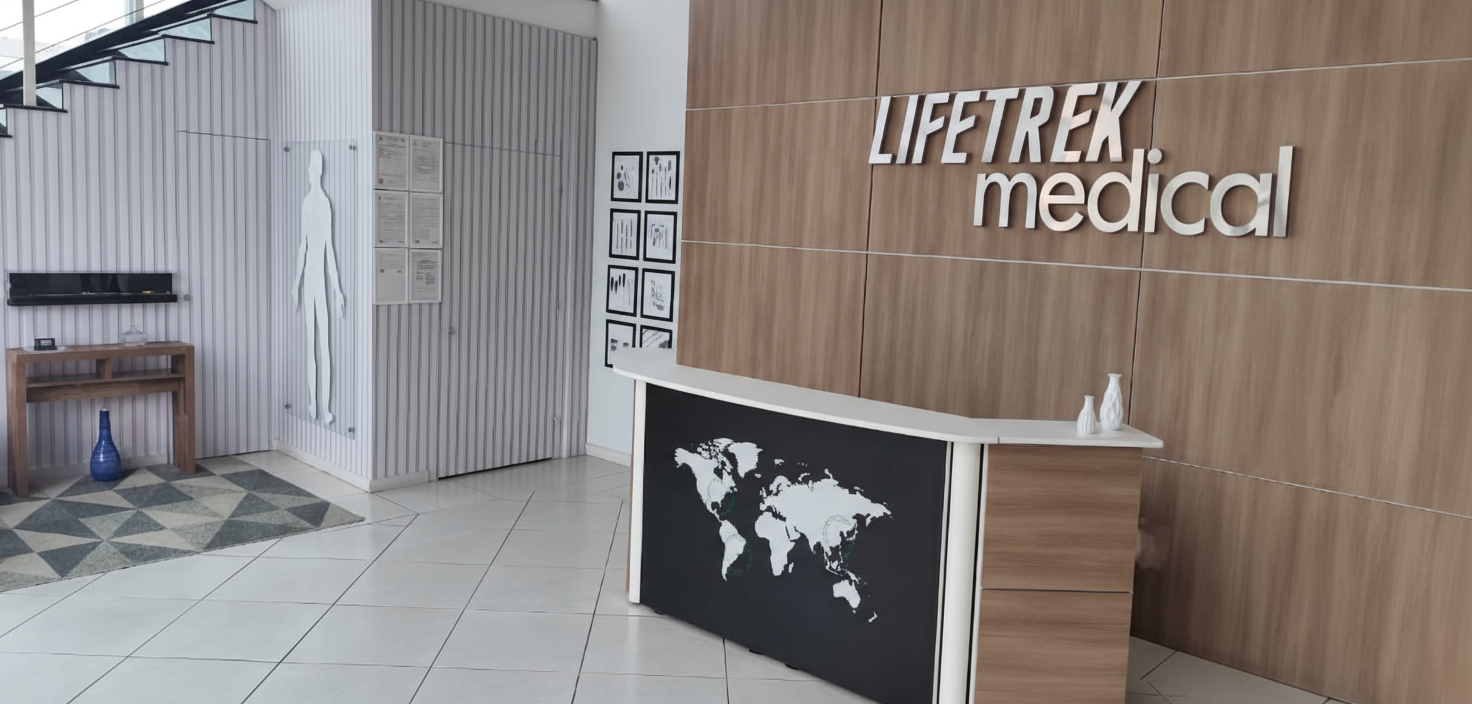
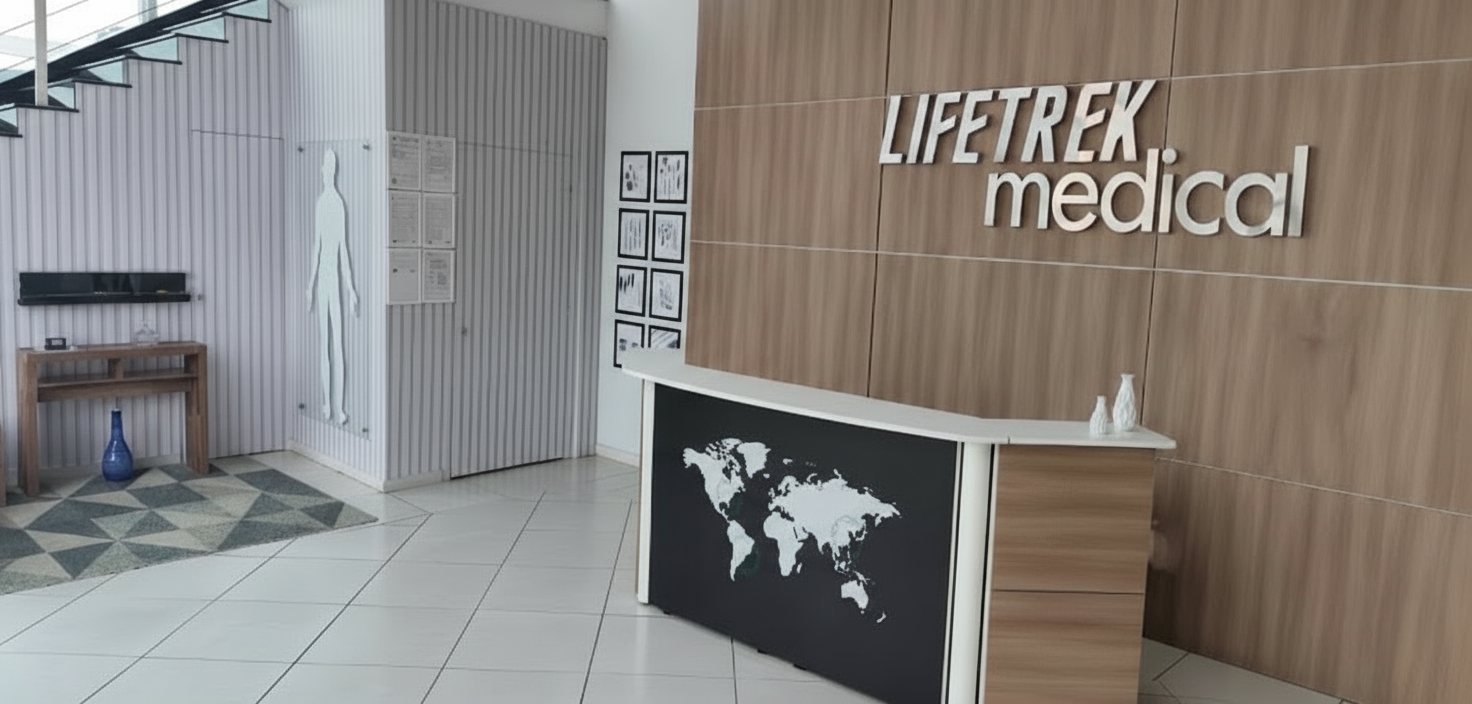
Fix: Optimize images for performance

diff --git a/src/pages/Home.tsx b/src/pages/Home.tsx
@@ -3,13 +3,12 @@ import { Button } from "@/components/ui/button";
 import { useLanguage } from "@/contexts/LanguageContext";
 import { Suspense, lazy } from "react";
 import { useIsMobile } from "@/hooks/use-mobile";
-import reception from "@/assets/facility/reception.webp";
 
 const DNA3D = lazy(() => import("@/components/3d/DNA3D").then(module => ({ default: module.DNA3D })));
 import receptionHero from "@/assets/facility/reception-hero.webp";
-import cleanroom from "@/assets/facility/cleanroom.webp";
-import exterior from "@/assets/facility/exterior.webp";
-import medicalScrew from "@/assets/products/medical-screw.webp";
+import cleanroomHero from "@/assets/facility/cleanroom-hero.webp";
+import exteriorHero from "@/assets/facility/exterior-hero.webp";
+import medicalScrewHero from "@/assets/products/medical-screw-hero.webp";
 import medicalImplantsDiagram from "@/assets/products/medical-implants-diagram.webp";
 import dentalImplantsDiagram from "@/assets/products/dental-implants-diagram.webp";
 import isoLogo from "@/assets/certifications/iso.webp";
@@ -60,7 +59,7 @@ import medens from "@/assets/clients/medens.webp";
 import neoortho from "@/assets/clients/neoortho.webp";
 import oblDental from "@/assets/clients/obl-dental.webp";
 import orthometric2 from "@/assets/clients/orthometric-2.webp";
-const heroImages = [reception, cleanroom, exterior, medicalScrew];
+const heroImages = [receptionHero, cleanroomHero, exteriorHero, medicalScrewHero];
 export default function Home() {
   const {
     t
@@ -215,8 +214,9 @@ export default function Home() {
                 className="w-full h-full object-cover" 
                 loading={index === 0 ? "eager" : "lazy"} 
                 fetchPriority={index === 0 ? "high" : "low"}
-                width="1920" 
-                height="600" 
+                decoding="async"
+                width="1000" 
+                height="667" 
               />
               <div className="absolute inset-0 bg-gradient-to-r from-primary/95 via-primary/80 to-transparent" />
               <div className="absolute inset-0 bg-gradient-to-br from-blue-600/30 via-blue-500/20 to-transparent mix-blend-overlay" />
@@ -360,7 +360,7 @@ export default function Home() {
 
           <div className="grid grid-cols-1 sm:grid-cols-2 lg:grid-cols-3 gap-8 sm:gap-10 max-w-6xl mx-auto mb-12 sm:mb-16">
             <div className="group relative overflow-hidden rounded-2xl shadow-2xl hover:shadow-primary/20 transition-all hover:-translate-y-2">
-              <img src={medicalScrew} alt="Precision medical implant screws manufactured with Swiss CNC technology" className="w-full h-64 sm:h-80 object-cover group-hover:scale-110 transition-transform duration-700" loading="lazy" width="400" height="320" />
+              <img src={medicalScrewHero} alt="Precision medical implant screws manufactured with Swiss CNC technology" className="w-full h-64 sm:h-80 object-cover group-hover:scale-110 transition-transform duration-700" loading="lazy" width="400" height="320" />
               <div className="absolute inset-0 bg-gradient-to-t from-primary via-primary/70 to-transparent flex items-end p-8">
                 <h3 className="text-xl font-bold text-primary-foreground group-hover:scale-105 transition-transform">{t("products.instruments.title")}</h3>
               </div>

diff --git a/index.html b/index.html
@@ -90,7 +90,7 @@
     </style>
     
     <!-- Preload hero image for LCP -->
-    <link rel="preload" as="image" href="/src/assets/facility/reception.webp" type="image/webp" fetchpriority="high">
+    <link rel="preload" as="image" href="/src/assets/facility/reception-hero.webp" type="image/webp" fetchpriority="high">
     <meta property="og:title" content="Lifetrek Medical - High-Precision Medical Manufacturing | ISO 13485 Certified">
   <meta name="twitter:title" content="Lifetrek Medical - High-Precision Medical Manufacturing | ISO 13485 Certified">
   <meta property="og:description" content="ISO 13485 &amp; ANVISA certified manufacturer of medical, dental, and veterinary implants and instruments. State-of-the-art Swiss CNC machining and ISO 7 cleanroom facilities in Brazil.">
